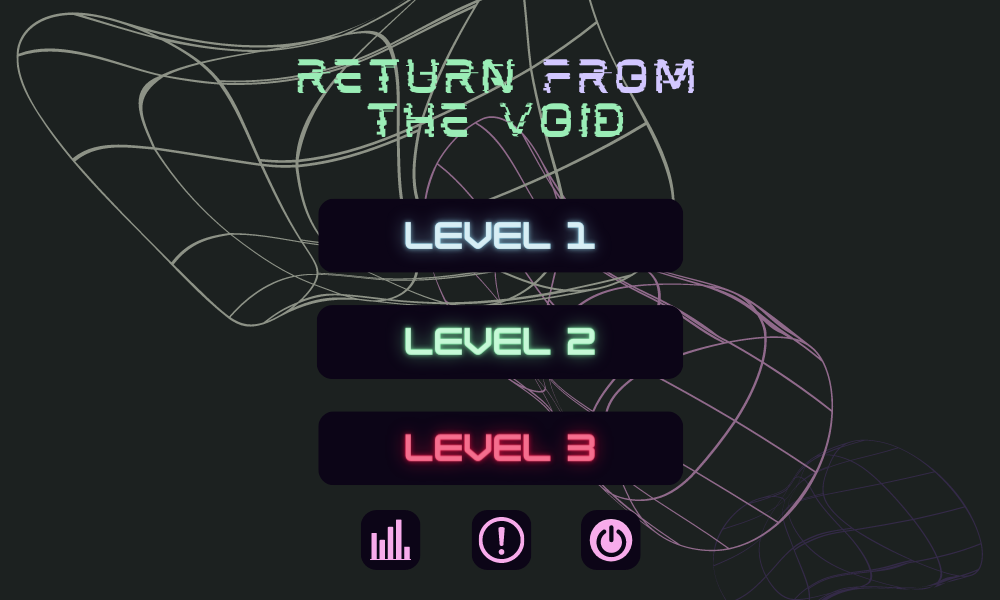
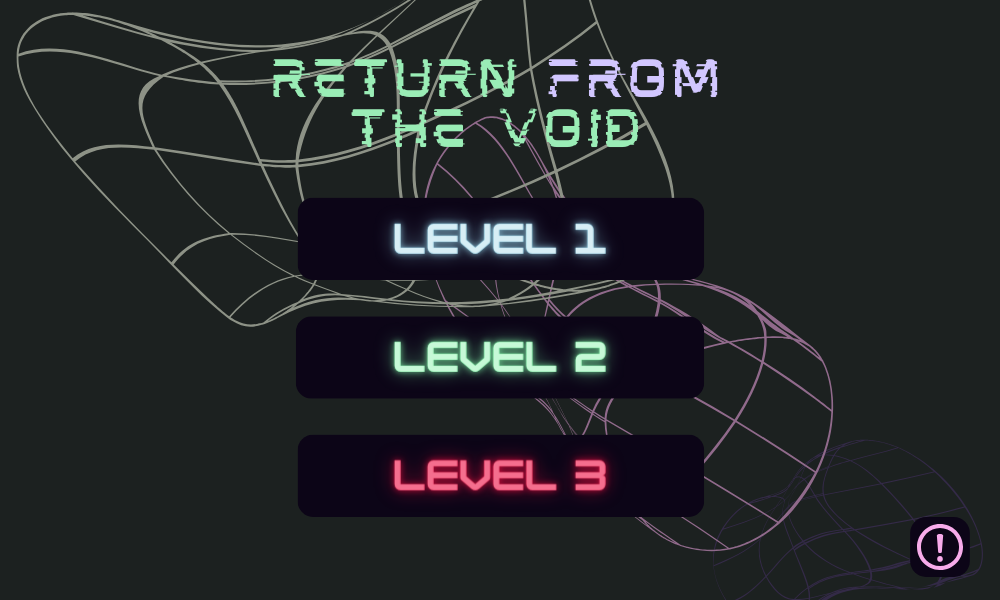
Se agregao el background al menu y los botones cambian de nivel

diff --git a/JImages/JBackgroundPanel.java b/JImages/JBackgroundPanel.java
@@ -9,23 +9,15 @@ import javax.imageio.ImageIO;
 
 public class JBackgroundPanel extends JPanel {
     private BufferedImage visible;
-    private BufferedImage[] bufImage;
 
     public JBackgroundPanel() {
-        this.bufImage = new BufferedImage[6];
-        for(int i=0; i<6; i++){
-            try {
-                this.bufImage[i] = ImageIO.read(new File("Resource/" + (i+1)+ ".png"));
-            } catch (IOException e) {
-                e.printStackTrace();
-            }
+        try {
+            this.visible = ImageIO.read(new File("Resource/Images/7.png"));
+        } catch (IOException e) {
+            e.printStackTrace();
         }
-        this.visible = this.bufImage[5];
     }
 
-    public void setImagen(int index) {
-        this.visible = bufImage[index];
-    }
 
     @Override
     protected void paintComponent(Graphics g) {
@@ -36,20 +28,8 @@ public class JBackgroundPanel extends JPanel {
         }
     }
 
-    public void changeBackground(int index) {
-        System.out.print("hola");
-        this.setImagen(index);
-        this.repaint();
-    }
 
-    public void changeWindow(JFrame frame, int index){
-        this.changeBackground(index);
-        frame.getContentPane().removeAll();
-
-        frame.repaint();
-        //Se podría modificar para poder añadir el panel (Canvas) de cada nivel aquí mismo y añadir el inicio del hilo del nivel 1 acá por ejemplo
-    }
-
+   
     public void addMainComponents(int WIDTH, int HEIGHT, JFrame frame){
 
         this.setSize(WIDTH, HEIGHT);
@@ -58,24 +38,18 @@ public class JBackgroundPanel extends JPanel {
         JButton starLv1 = new JButton();
         JButton starLv2 = new JButton();
         JButton starLv3 = new JButton();
-        JButton scoreB = new JButton("S");
-        JButton creditsB = new JButton("!");
-        JButton exiButton = new JButton("X");
 
         starLv1.setOpaque(true);
         starLv1.setContentAreaFilled(false);
         starLv1.setBorderPainted(false);
-        starLv1.addActionListener(e -> this.changeWindow(frame, 0));
 
         starLv2.setOpaque(true);
         starLv2.setContentAreaFilled(false);
         starLv2.setBorderPainted(false);
-        starLv2.addActionListener(e -> this.changeBackground(1));
 
         starLv3.setOpaque(true);
         starLv3.setContentAreaFilled(false);
         starLv3.setBorderPainted(false);
-        starLv3.addActionListener(e -> this.changeBackground(2));
         
         starLv1.setBounds(313, 190, 361, 65);
         starLv2.setBounds(313, 285, 361, 65);

diff --git a/Menu.java b/Menu.java
@@ -1,13 +1,13 @@
+import java.awt.image.BufferedImage;
 import javax.swing.JButton;
 import javax.swing.JFrame;
-import javax.swing.JPanel;
-
-import Model.Loader;
+import JImages.*;
 
 public class Menu extends JFrame{
     private final int WIDTH=1000, HEIGHT=600;
-    JPanel panel;
+    JBackgroundPanel panel;
     JButton lev1B, lev2B, lev3B;
+    BufferedImage backGroundPanel;
 
     public Menu(){
         setTitle("Return from the Void!");
@@ -16,31 +16,60 @@ public class Menu extends JFrame{
         setResizable(false);
         setLocationRelativeTo(null);
 
-        panel = new JPanel();
+        //Creacion del panel
+        panel = new JBackgroundPanel();
         panel.setLayout(null);
 
         //Creacion de los botones
-        lev1B = new JButton("Level 1");
+        lev1B = new JButton();
+        lev1B.setOpaque(true);
+        lev1B.setContentAreaFilled(false);
+        lev1B.setBorderPainted(false);
+
+        lev2B = new JButton();
+        lev2B.setOpaque(true);
+        lev2B.setContentAreaFilled(false);
+        lev2B.setBorderPainted(false);
+
+        lev3B = new JButton();
+        lev3B.setOpaque(true);
+        lev3B.setContentAreaFilled(false);
+        lev3B.setBorderPainted(false);
 
         //Agregamos action listener a los botones
         lev1B.addActionListener(e-> goToLevel(1));
+        lev2B.addActionListener(e-> goToLevel(2));
+        lev3B.addActionListener(e-> goToLevel(3));
 
         //Posicionamos los botones
-        lev1B.setBounds(450,100, 100, 30);
+        lev1B.setBounds(300, 190, 390, 70);
+        lev2B.setBounds(300, 300, 390, 70);
+        lev3B.setBounds(300, 410, 390, 70);
 
         //Agregamos los botones al panel
         panel.add(lev1B);
+        panel.add(lev2B);
+        panel.add(lev3B);
 
         add(panel);
         setVisible(true);
     }
 
+    //Funcion para cambiar de nivel
     private void goToLevel(int index){
         this.setVisible(false);
         if(index==1){
             Nivel1 lvl1 = new Nivel1();
             lvl1.start();
             lvl1.setVisible(true);
+        }
+        if(index == 2){
+            System.out.println("ir al nivel 2");
+            this.setVisible(true);
+        }
+        if(index == 3){
+            System.out.println("ir al nivel 3");
+            this.setVisible(true);
         }
     }
 
